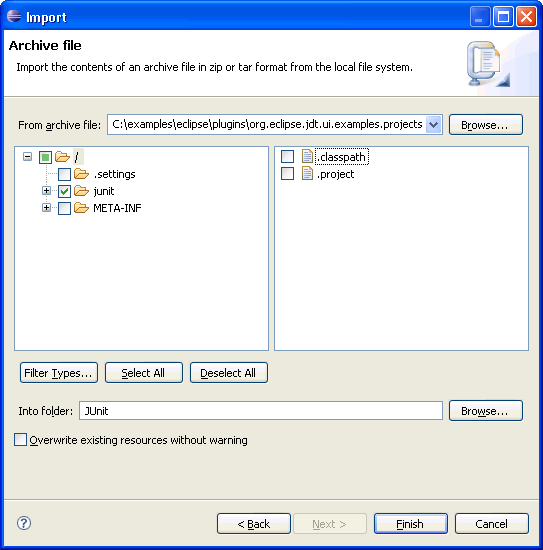
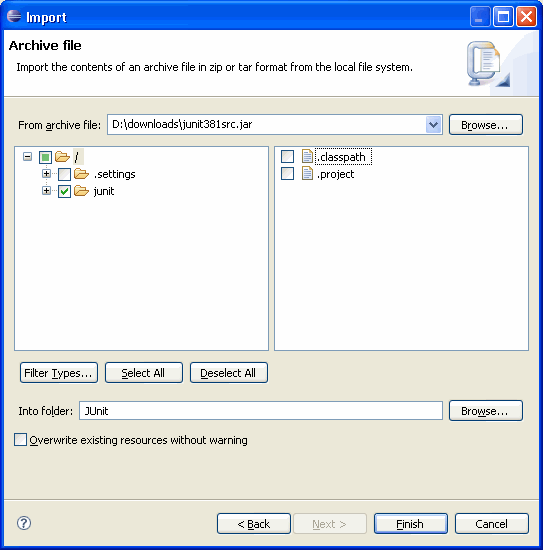
202077 [doc] Link to JUunit sources not correct

Changed region(s): [[0.2357, 0.2164, 0.7661, 0.2473], [0.0589, 0.3709, 0.2652, 0.4018], [0.0589, 0.3091, 0.0884, 0.34]]

diff --git a/bundles/org.eclipse.jdt.doc.user/gettingStarted/qs-3.htm b/bundles/org.eclipse.jdt.doc.user/gettingStarted/qs-3.htm
@@ -23,13 +23,8 @@
 
 <P>First you need to download the JUnit source code.</P>
 <OL>
-	<LI>Go to the <A href="http://download.eclipse.org/eclipse/downloads/">http://download.eclipse.org/eclipse/downloads/</A>
-	page</LI>
-	<LI>Select the link for the latest 3.3 release</LI>
-	<LI>Scroll down to the <EM>Example Plug-ins</EM> section and download
-	the examples archive.</LI>
-	<LI>Extract the contents of the Zip file to a directory  from  now on  referenced as &lt;Downloads&gt; (e.g. c:\myDownloads).
-	</LI>
+	<LI>Click <A href="http://dev.eclipse.org/viewcvs/index.cgi/org.eclipse.jdt.ui.examples.projects/archive/junit/junit381src.jar?view=co">here</A> to download the Junit source code</LI>
+	<LI>Save the archive (do not extract) to a directory from now on referenced as <em>&lt;Downloads&gt;</em></LI>
 	</OL>
 <H2>Creating the project</H2>
 
@@ -53,7 +48,7 @@
 	</LI>
 	<LI>Click the <STRONG>Browse</STRONG> button next to the <STRONG>Archive
 	file</STRONG> field and browse to select
-	<p><em>&lt;Downloads&gt;/eclipse/plugins/org.eclipse.jdt.ui.examples.projects_3.1.100/archive/junit/junit381src.jar</em></p>
+	<p><em>&lt;Downloads&gt;/junit381src.jar</em></p>
 	<STRONG>Note:</STRONG> This step assumes that you followed steps 1-3 in the <STRONG>Getting
 	the Sample Code</STRONG> section above.<BR>
 	</LI>
